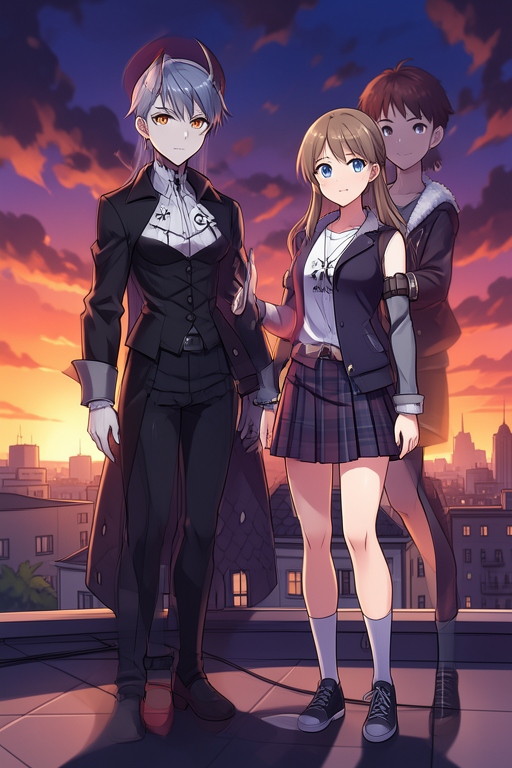
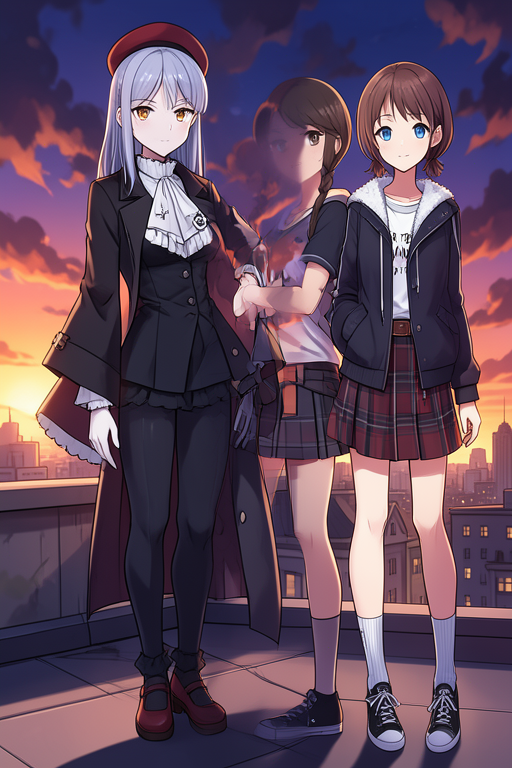
Improve character consistency by increasing reference image influence
Add ConditioningSetAreaStrength nodes to double the attention weight of reference images compared to text conditioning in the workflow.

Replit-Commit-Author: Agent
Replit-Commit-Session-Id: 93f1d019-95a0-4049-84e3-6b3b1efc4c86
Replit-Commit-Checkpoint-Type: full_checkpoint
Replit-Commit-Event-Id: ad44eb99-c1b1-4902-bede-162a50fb77f8
Replit-Helium-Checkpoint-Created: true

diff --git a/workflow_adapter.py b/workflow_adapter.py
@@ -1026,10 +1026,25 @@ def build_multiref_workflow(
             # ── Hard spatial masks (default: side-by-side scenes) ─────────────
             # "mask bounds" mode: each character's conditioning is clipped to
             # their half.  Gives best feature accuracy for non-contact poses.
+            #
+            # ConditioningSetAreaStrength (strength=2.0) sits between the
+            # ReferenceLatent chain and the mask so the photo reference gets
+            # 2× attention weight vs text, ensuring consistent character
+            # appearance regardless of seed.
+            workflow["AS0"] = {
+                "class_type": "ConditioningSetAreaStrength",
+                "inputs": {"conditioning": [char_final_pos[0], 0], "strength": 2.0},
+                "_meta": {"title": "Boost ref strength — char 0"},
+            }
+            workflow["AS1"] = {
+                "class_type": "ConditioningSetAreaStrength",
+                "inputs": {"conditioning": [char_final_pos[1], 0], "strength": 2.0},
+                "_meta": {"title": "Boost ref strength — char 1"},
+            }
             workflow["SM0"] = {
                 "class_type": "ConditioningSetMask",
                 "inputs": {
-                    "conditioning":  [char_final_pos[0], 0],
+                    "conditioning":  ["AS0", 0],
                     "mask":          ["ML", 0],
                     "strength":      1.0,
                     "set_cond_area": "mask bounds",
@@ -1039,7 +1054,7 @@ def build_multiref_workflow(
             workflow["SM1"] = {
                 "class_type": "ConditioningSetMask",
                 "inputs": {
-                    "conditioning":  [char_final_pos[1], 0],
+                    "conditioning":  ["AS1", 0],
                     "mask":          ["MR", 0],
                     "strength":      1.0,
                     "set_cond_area": "mask bounds",
